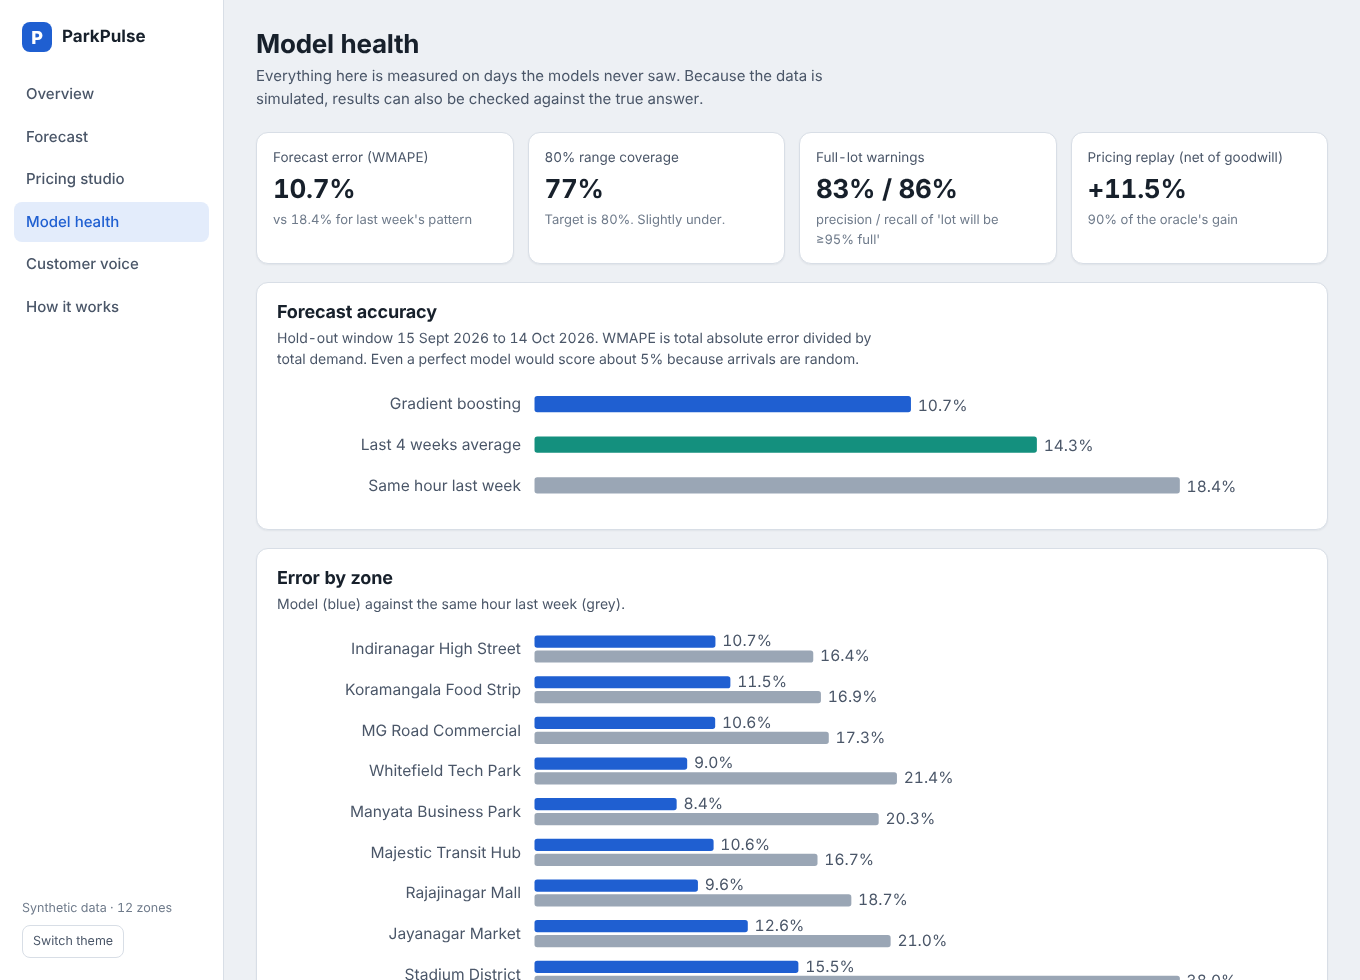
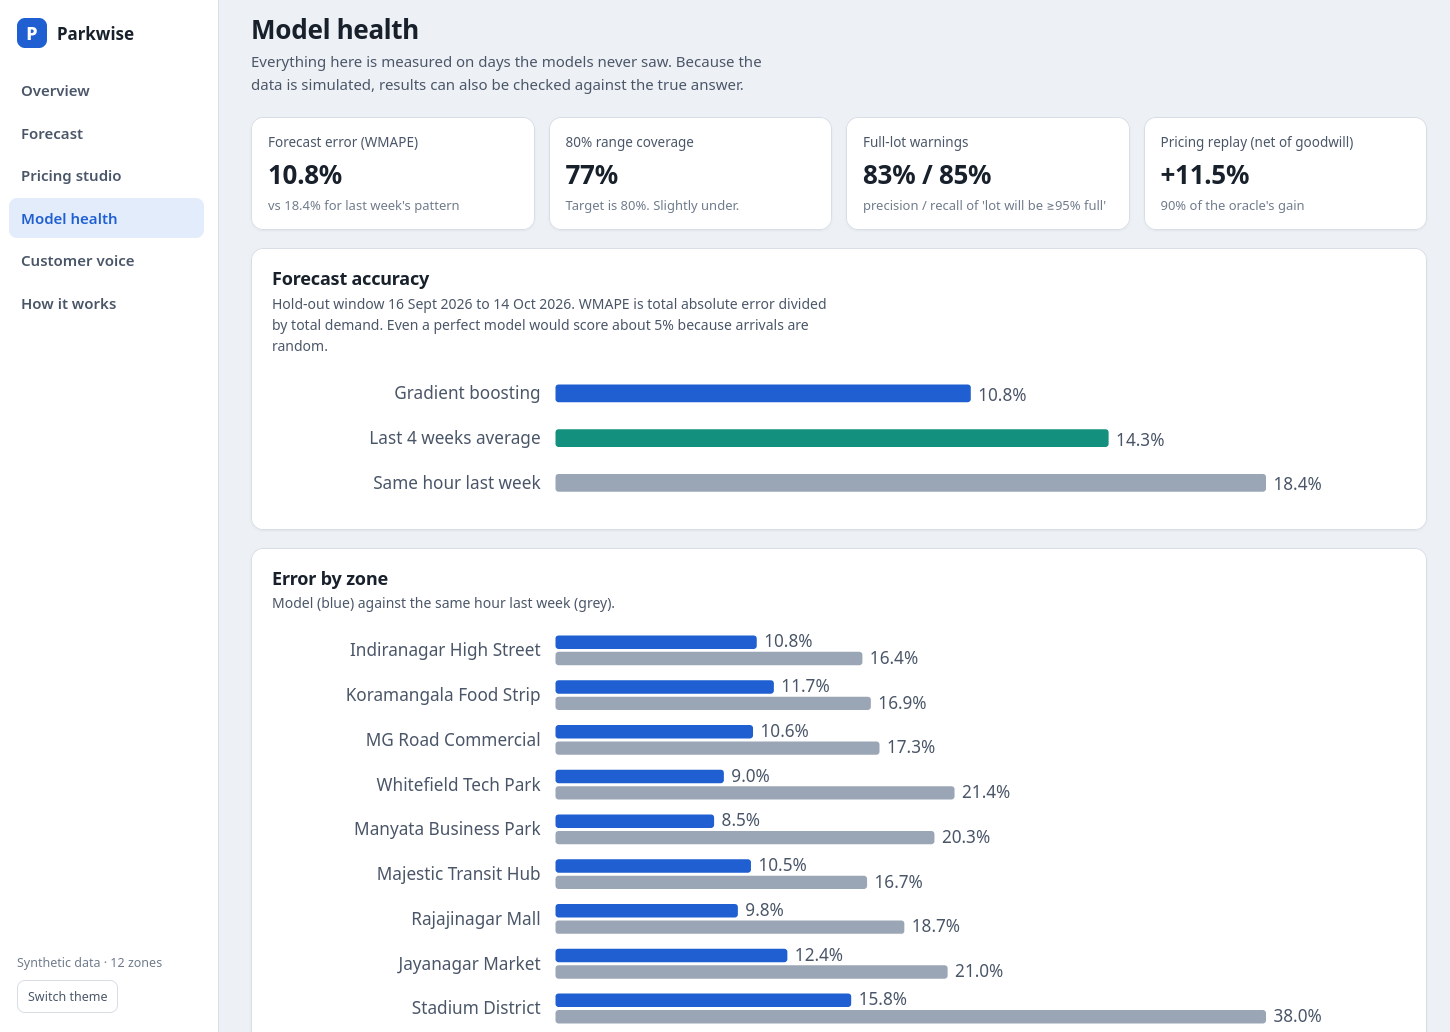
improved README and updated screenshots

diff --git a/README.md b/README.md
@@ -4,10 +4,13 @@
 A day-ahead forecaster, a price-sensitivity estimator built on randomised experiments, a constrained
 pricing optimiser, a ticket classifier, and a dashboard. All of it runs offline with no API keys.
 
+**Product brief:** [Metrics, rollout plan, and risks → PRODUCT.md](PRODUCT.md)
+
 ![Overview](docs/overview.png)
 
 <p><img src="docs/pricing.png" alt="Pricing studio" width="49%"> <img src="docs/model-health.png" alt="Model health" width="49%"></p>
 
+> **Key product decision:** The first optimizer increased simulated revenue by 18%, but priced out too many drivers. I added a goodwill cost for turned-away and priced-out drivers, accepting a +13% revenue improvement in exchange for a more balanced outcome.
 > **All data is synthetic.** Real parking telemetry is proprietary, so a simulator with *known* demand
 > and price sensitivity generates the data. That is a feature as well as a limit: it lets every stage be
 > graded against the truth, which real data never allows. See [Limitations](#limitations).
@@ -35,8 +38,7 @@ python -m parkwise serve          # http://127.0.0.1:8000  (artifacts/ is includ
 python -m parkwise build          # regenerate everything (~2 min)
 python -m unittest discover -s tests -t .   # 41 tests, ~6 s
 ```
-
-Developed and tested on Python 3.13. Nothing is downloaded at runtime: the charts are hand-written SVG.
+Tested with Python 3.13. The application runs locally without API keys.
 
 ## How it works
 
